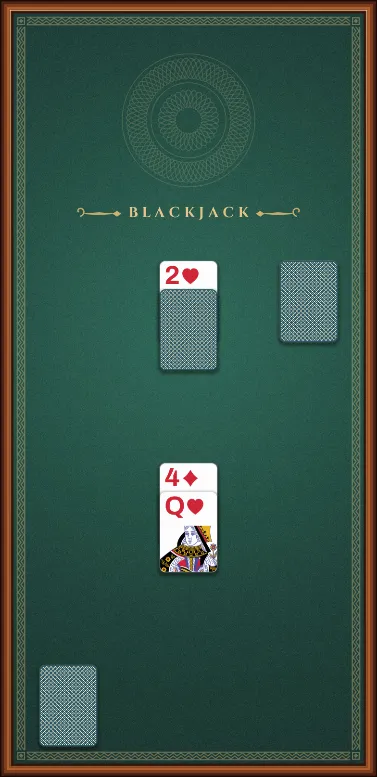
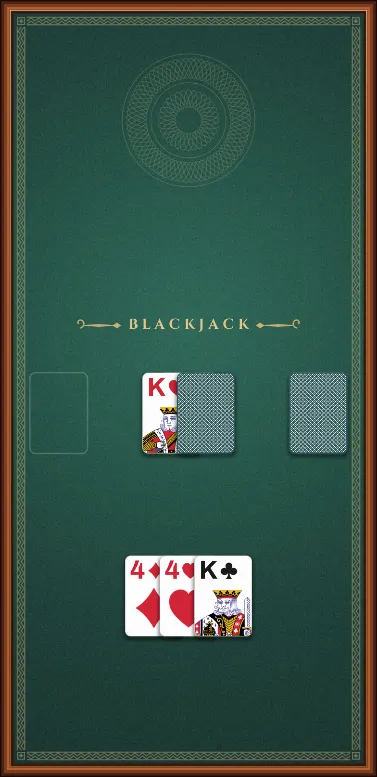
Spread hands across the table, with felt's own fan
TableGame.fansAcross marks a pile that spreads sideways, centred on its
slot, rather than hanging down the board. The board lays it out with
felt's stackOffsets - the same even squeeze felt's Stack uses for its
left and right fans - once it would reach the rails.

Blackjack's hands use it: each card shows its whole corner, the dealer's
hand runs between the tray and the shoe, and a split hand sits under the
first instead of beside it.

diff --git a/src/app/game/blackjack-table.ts b/src/app/game/blackjack-table.ts
@@ -1,4 +1,4 @@
-import { CARD_PEEK_HEIGHT } from './config';
+import { CARD_HEIGHT, CARD_WIDTH } from './config';
 import { Card } from './deck';
 import { PileRef } from './piles';
 import { Handedness } from './settings-types';
@@ -11,16 +11,19 @@ const WIDTH = 360;
 
 // The dealer across the top, below the lettering; your hand below that.
 const DEALER_Y = 230;
-const HAND_Y = 440;
-// A split hand sits to the right of the first, which stays where it was.
-const HAND_X = [WIDTH / 2, WIDTH / 2 + 110];
+const HAND_Y = 420;
+// A split hand sits under the first, which stays where it was: hands are
+// spread across the table, so side by side they would run into each other.
+const HAND_ROWS = [HAND_Y, HAND_Y + CARD_HEIGHT + 30];
+// What a card shows of the one under it, spread across: its whole corner,
+// rank and suit side by side, and a little clear felt-white past them.
+const SPREAD = Math.round(CARD_WIDTH * 0.6);
 
-// The shoe beside the dealer, where it is on a real table. The discard tray
-// low on the felt, to the left of where the hands grow down to - which is
-// also what holds the board down to its full height: a fixed layout is set
-// on the floor by its lowest slot, and the hands need the room below them.
-const SHOE = { x: WIDTH - 55, y: DEALER_Y };
-const TRAY = { x: 55, y: 650 };
+// The shoe beside the dealer, where it is on a real table, and the discard
+// tray on the other side - at the two ends of the dealer's row, clear of a
+// hand of six spread between them.
+const SHOE = { x: WIDTH - 45, y: DEALER_Y };
+const TRAY = { x: 45, y: DEALER_Y };
 
 // Blackjack, as the board sees it.
 //
@@ -47,12 +50,12 @@ export function blackjackTable(bankroll: () => number): TableGame<BlackjackState
         { ref: pileRefs.stock, column: 0, row: 'top', ...SHOE, recycle: false },
         { ref: pileRefs.waste, column: 0, row: 'top', ...TRAY },
         { ref: pileRefs.dealer, column: 0, row: 'tableau', x: WIDTH / 2, y: DEALER_Y, printed: true, target: false },
-        ...HAND_X.map((x, i) => ({
+        ...HAND_ROWS.map((y, i) => ({
           ref: pileRefs.hand(i),
           column: 0,
           row: 'tableau' as const,
-          x,
-          y: HAND_Y,
+          x: WIDTH / 2,
+          y,
           // The second only exists once a pair has been split.
           printed: i === 0,
           target: false,
@@ -60,11 +63,13 @@ export function blackjackTable(bankroll: () => number): TableGame<BlackjackState
       ];
     },
 
-    // Each card's index showing, the way a hand is spread on a table.
+    // Spread across, each card's index showing, the way a dealer lays a hand
+    // out on the felt.
     fanStep(ref: PileRef, _cards: readonly Card[], index: number): number {
-      return ref.kind === 'tableau' && index > 0 ? CARD_PEEK_HEIGHT : 0;
+      return ref.kind === 'tableau' && index > 0 ? SPREAD : 0;
     },
     fansUp: () => false,
+    fansAcross: (ref: PileRef) => ref.kind === 'tableau',
 
     deal: (random) => deal(bankroll(), random),
     dealsFaceDown: false,
@@ -74,7 +79,7 @@ export function blackjackTable(bankroll: () => number): TableGame<BlackjackState
         { ref: pileRefs.stock, cards: state.stock },
         { ref: pileRefs.waste, cards: state.waste },
         { ref: pileRefs.dealer, cards: state.dealer },
-        ...HAND_X.map((_, i) => ({ ref: pileRefs.hand(i), cards: state.hands[i]?.cards ?? [] })),
+        ...HAND_ROWS.map((_, i) => ({ ref: pileRefs.hand(i), cards: state.hands[i]?.cards ?? [] })),
       ];
     },
 

diff --git a/src/app/game/solitaire-scene.ts b/src/app/game/solitaire-scene.ts
@@ -1,6 +1,6 @@
 import {
   Board, BoardPointer, Sprite, Toaster, Tween, cardsReady, createBoard, defineStack, flipCard, formatNumber,
-  riffleShuffle, toastsOf,
+  riffleShuffle, stackOffsets, toastsOf,
 } from '@exterkamp/felt';
 import { markBooted, renderScale } from './lite';
 import {
@@ -466,6 +466,16 @@ export class SolitaireScene {
     return cards.map((_, i) => this.table.fanStep(ref, cards, i));
   }
 
+  private across(ref: PileRef): boolean {
+    return this.table.fansAcross?.(ref) ?? false;
+  }
+
+  // How wide a spread hand may get: the table between the rails, less the
+  // card at each end.
+  private get acrossRoom(): number {
+    return this.table.width - 2 * BOARD_MARGIN - CARD_WIDTH;
+  }
+
   private fanDepth(ref: PileRef, cards: readonly Card[]): number {
     return this.fanSteps(ref, cards).reduce((sum, step) => sum + step, 0);
   }
@@ -500,7 +510,7 @@ export class SolitaireScene {
       .piles(this.session.state)
       // Only the piles that hang downward: a pile that fans up out of its
       // slot, like a draw-three waste, needs room above rather than below.
-      .filter((pile) => !this.table.fansUp(pile.ref))
+      .filter((pile) => !this.table.fansUp(pile.ref) && !this.across(pile.ref))
       .map((pile) => this.fanDepth(pile.ref, pile.cards));
     const deepest = Math.max(0, ...depths);
     const slack = this.floorY - (TABLEAU_TOP_Y + deepest + CARD_HEIGHT);
@@ -524,6 +534,12 @@ export class SolitaireScene {
   // needed by the deepest pile a game can produce - which is what it was for,
   // and why it now almost never happens.
   private fanOffsets(ref: PileRef, cards: readonly Card[]): number[] {
+    // A hand spread across the table is felt's own fan: squeezed evenly to
+    // the room between the rails once it would reach them.
+    if (this.across(ref)) {
+      const stack = defineStack({ id: pileKey(ref), x: 0, y: 0, fan: 'right', maxSpread: this.acrossRoom });
+      return stackOffsets(stack, this.fanSteps(ref, cards).slice(1));
+    }
     const steps = this.fanSteps(ref, cards);
     const total = steps.reduce((sum, step) => sum + step, 0);
     const room = this.floorY - (TABLEAU_TOP_Y + this.drop) - CARD_HEIGHT;
@@ -541,6 +557,11 @@ export class SolitaireScene {
   private cardPosition(ref: PileRef, index: number, cards: readonly Card[]): { x: number; y: number } {
     const base = this.pileBase(ref);
     const offsets = this.fanOffsets(ref, cards);
+    if (this.across(ref)) {
+      // Centred on the slot, so a hand grows out both ways as it is dealt.
+      const spread = offsets[offsets.length - 1] ?? 0;
+      return { x: base.x - spread / 2 + offsets[index], y: base.y };
+    }
     if (!this.table.fansUp(ref)) return { x: base.x, y: base.y + offsets[index] };
     // Upward, measured from the card at the end of the pile rather than from
     // the one at the start: the newest card stays in the slot and the older
@@ -1373,7 +1394,7 @@ export class SolitaireScene {
       // as the pile is long: a run dropped anywhere down a column is meant
       // for that column, not for the felt beside it.
       const offsets = this.fanOffsets(slot.ref, pile);
-      const depth = this.table.fansUp(slot.ref) ? 0 : (offsets[offsets.length - 1] ?? 0);
+      const depth = this.table.fansUp(slot.ref) || this.across(slot.ref) ? 0 : (offsets[offsets.length - 1] ?? 0);
       zones.push({
         ref: slot.ref,
         rect: {

diff --git a/src/app/game/table-game.ts b/src/app/game/table-game.ts
@@ -176,6 +176,12 @@ export interface TableGame<S> {
   fanStep(ref: PileRef, cards: readonly Card[], index: number): number;
   /** Whether a pile fans upward out of its slot rather than downward. */
   fansUp(ref: PileRef): boolean;
+  /**
+   * Whether a pile spreads sideways, centred on its slot, rather than down
+   * the board: a hand laid on the table, the way a dealer spreads one. Its
+   * fanStep is then the gap across. Absent, every pile is a column.
+   */
+  fansAcross?(ref: PileRef): boolean;
 
   // --- the rules -----------------------------------------------------------
 
